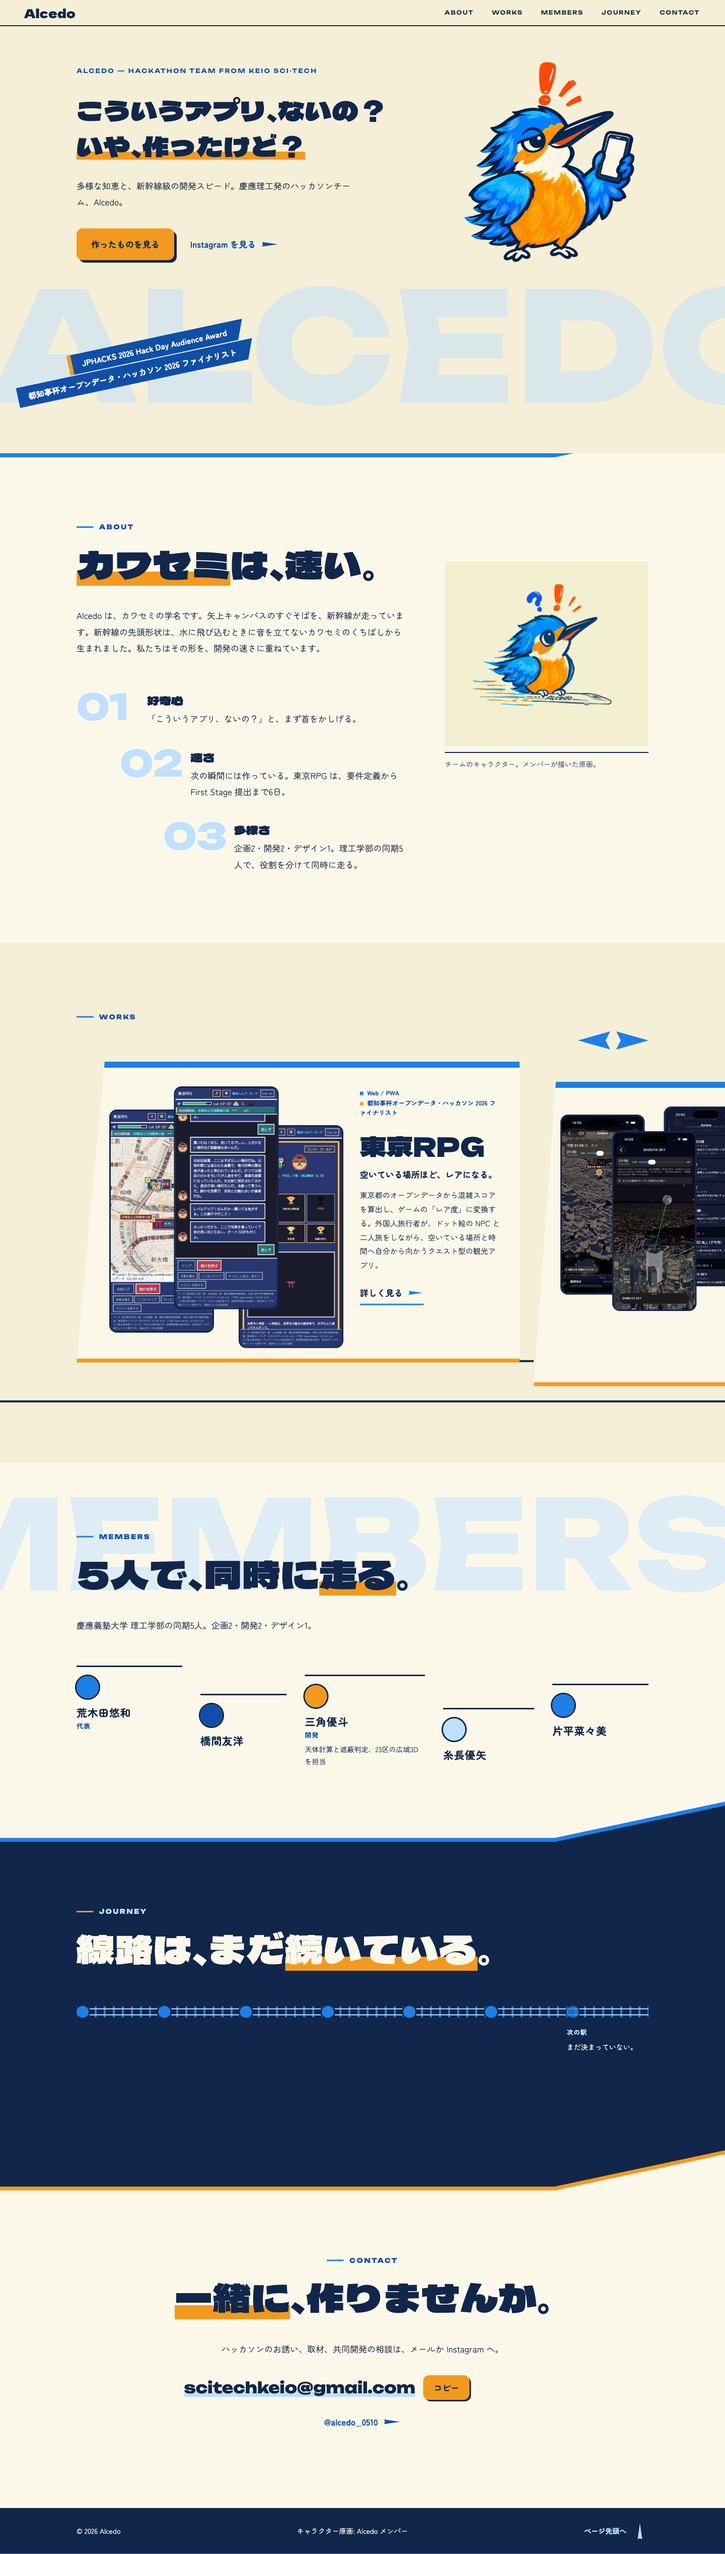
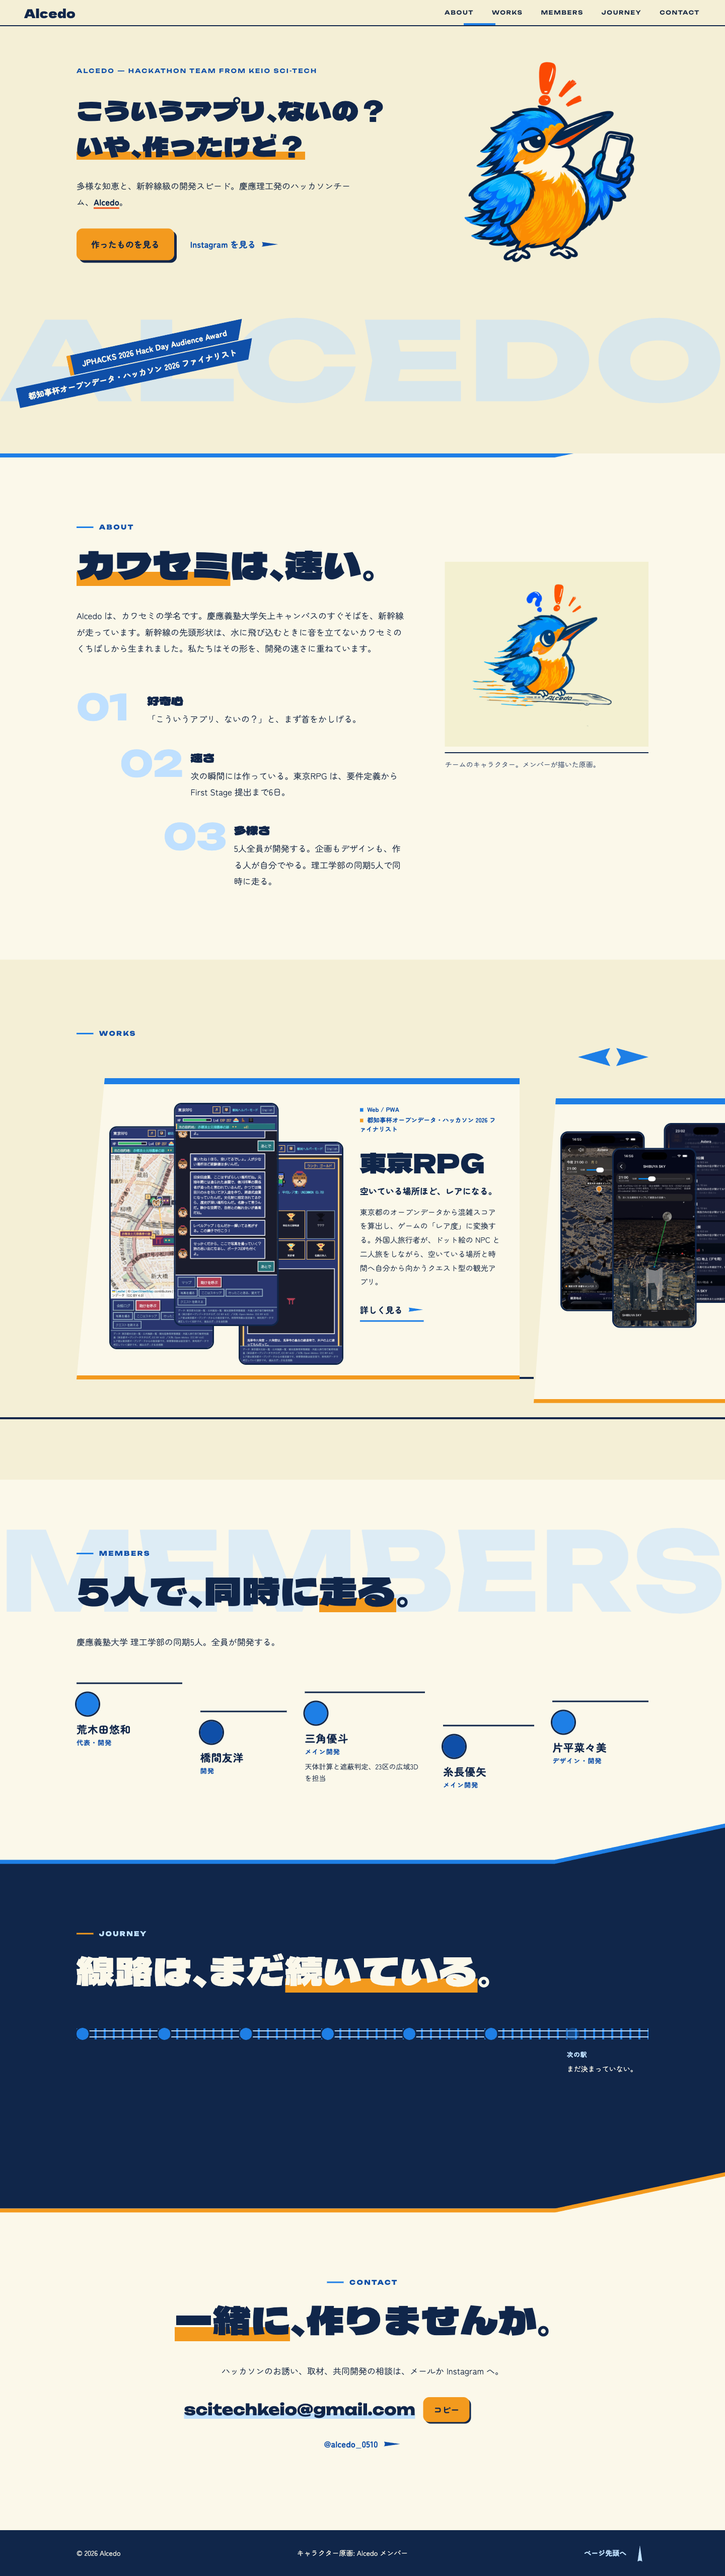
feat: 飛翔に翼を下ろした2コマ目を追加して羽ばたかせる
- assets/char/flap.png（codex で生成、1コマ目とくちばし・目の位置を合わせて配置）
- 2コマ目が読めたときだけ 0.2s 周期で交互表示。無ければ1コマ＋上下動
- 仕様書・README・全画面画像を更新

diff --git a/index.html b/index.html
@@ -50,6 +50,7 @@
   <div class="flight__bird" id="flightBird">
     <!-- 原画の画風で生成した飛翔ポーズ。2コマ目（翼を下ろした絵）があれば交互に出して羽ばたかせる -->
     <img class="fb fb--1" src="assets/char/flying.png" alt="" width="1040" height="1040" decoding="async">
+    <img class="fb fb--2" src="assets/char/flap.png" alt="" width="1040" height="1040" decoding="async">
   </div>
 </div>
 
@@ -102,7 +103,7 @@
       <div class="about__grid">
         <div class="about__main">
           <h2 class="title" id="about-h" data-split><span class="mk">カワセミ</span>は、速い。</h2>
-          <p class="about__body" data-reveal>Alcedo は、カワセミの学名です。矢上キャンパスのすぐそばを、新幹線が走っています。新幹線の先頭形状は、水に飛び込むときに音を立てないカワセミのくちばしから生まれました。私たちはその形を、開発の速さに重ねています。</p>
+          <p class="about__body" data-reveal>Alcedo は、カワセミの学名です。慶應義塾大学矢上キャンパスのすぐそばを、新幹線が走っています。新幹線の先頭形状は、水に飛び込むときに音を立てないカワセミのくちばしから生まれました。私たちはその形を、開発の速さに重ねています。</p>
           <ol class="pillars">
             <li class="pillar pillar--1" data-reveal><span class="pillar__no" aria-hidden="true">01</span><h3>好奇心</h3><p>「こういうアプリ、ないの？」と、まず首をかしげる。</p></li>
             <li class="pillar pillar--2" data-reveal><span class="pillar__no" aria-hidden="true">02</span><h3>速さ</h3><p>次の瞬間には作っている。東京RPG は、要件定義から First Stage 提出まで6日。</p></li>
